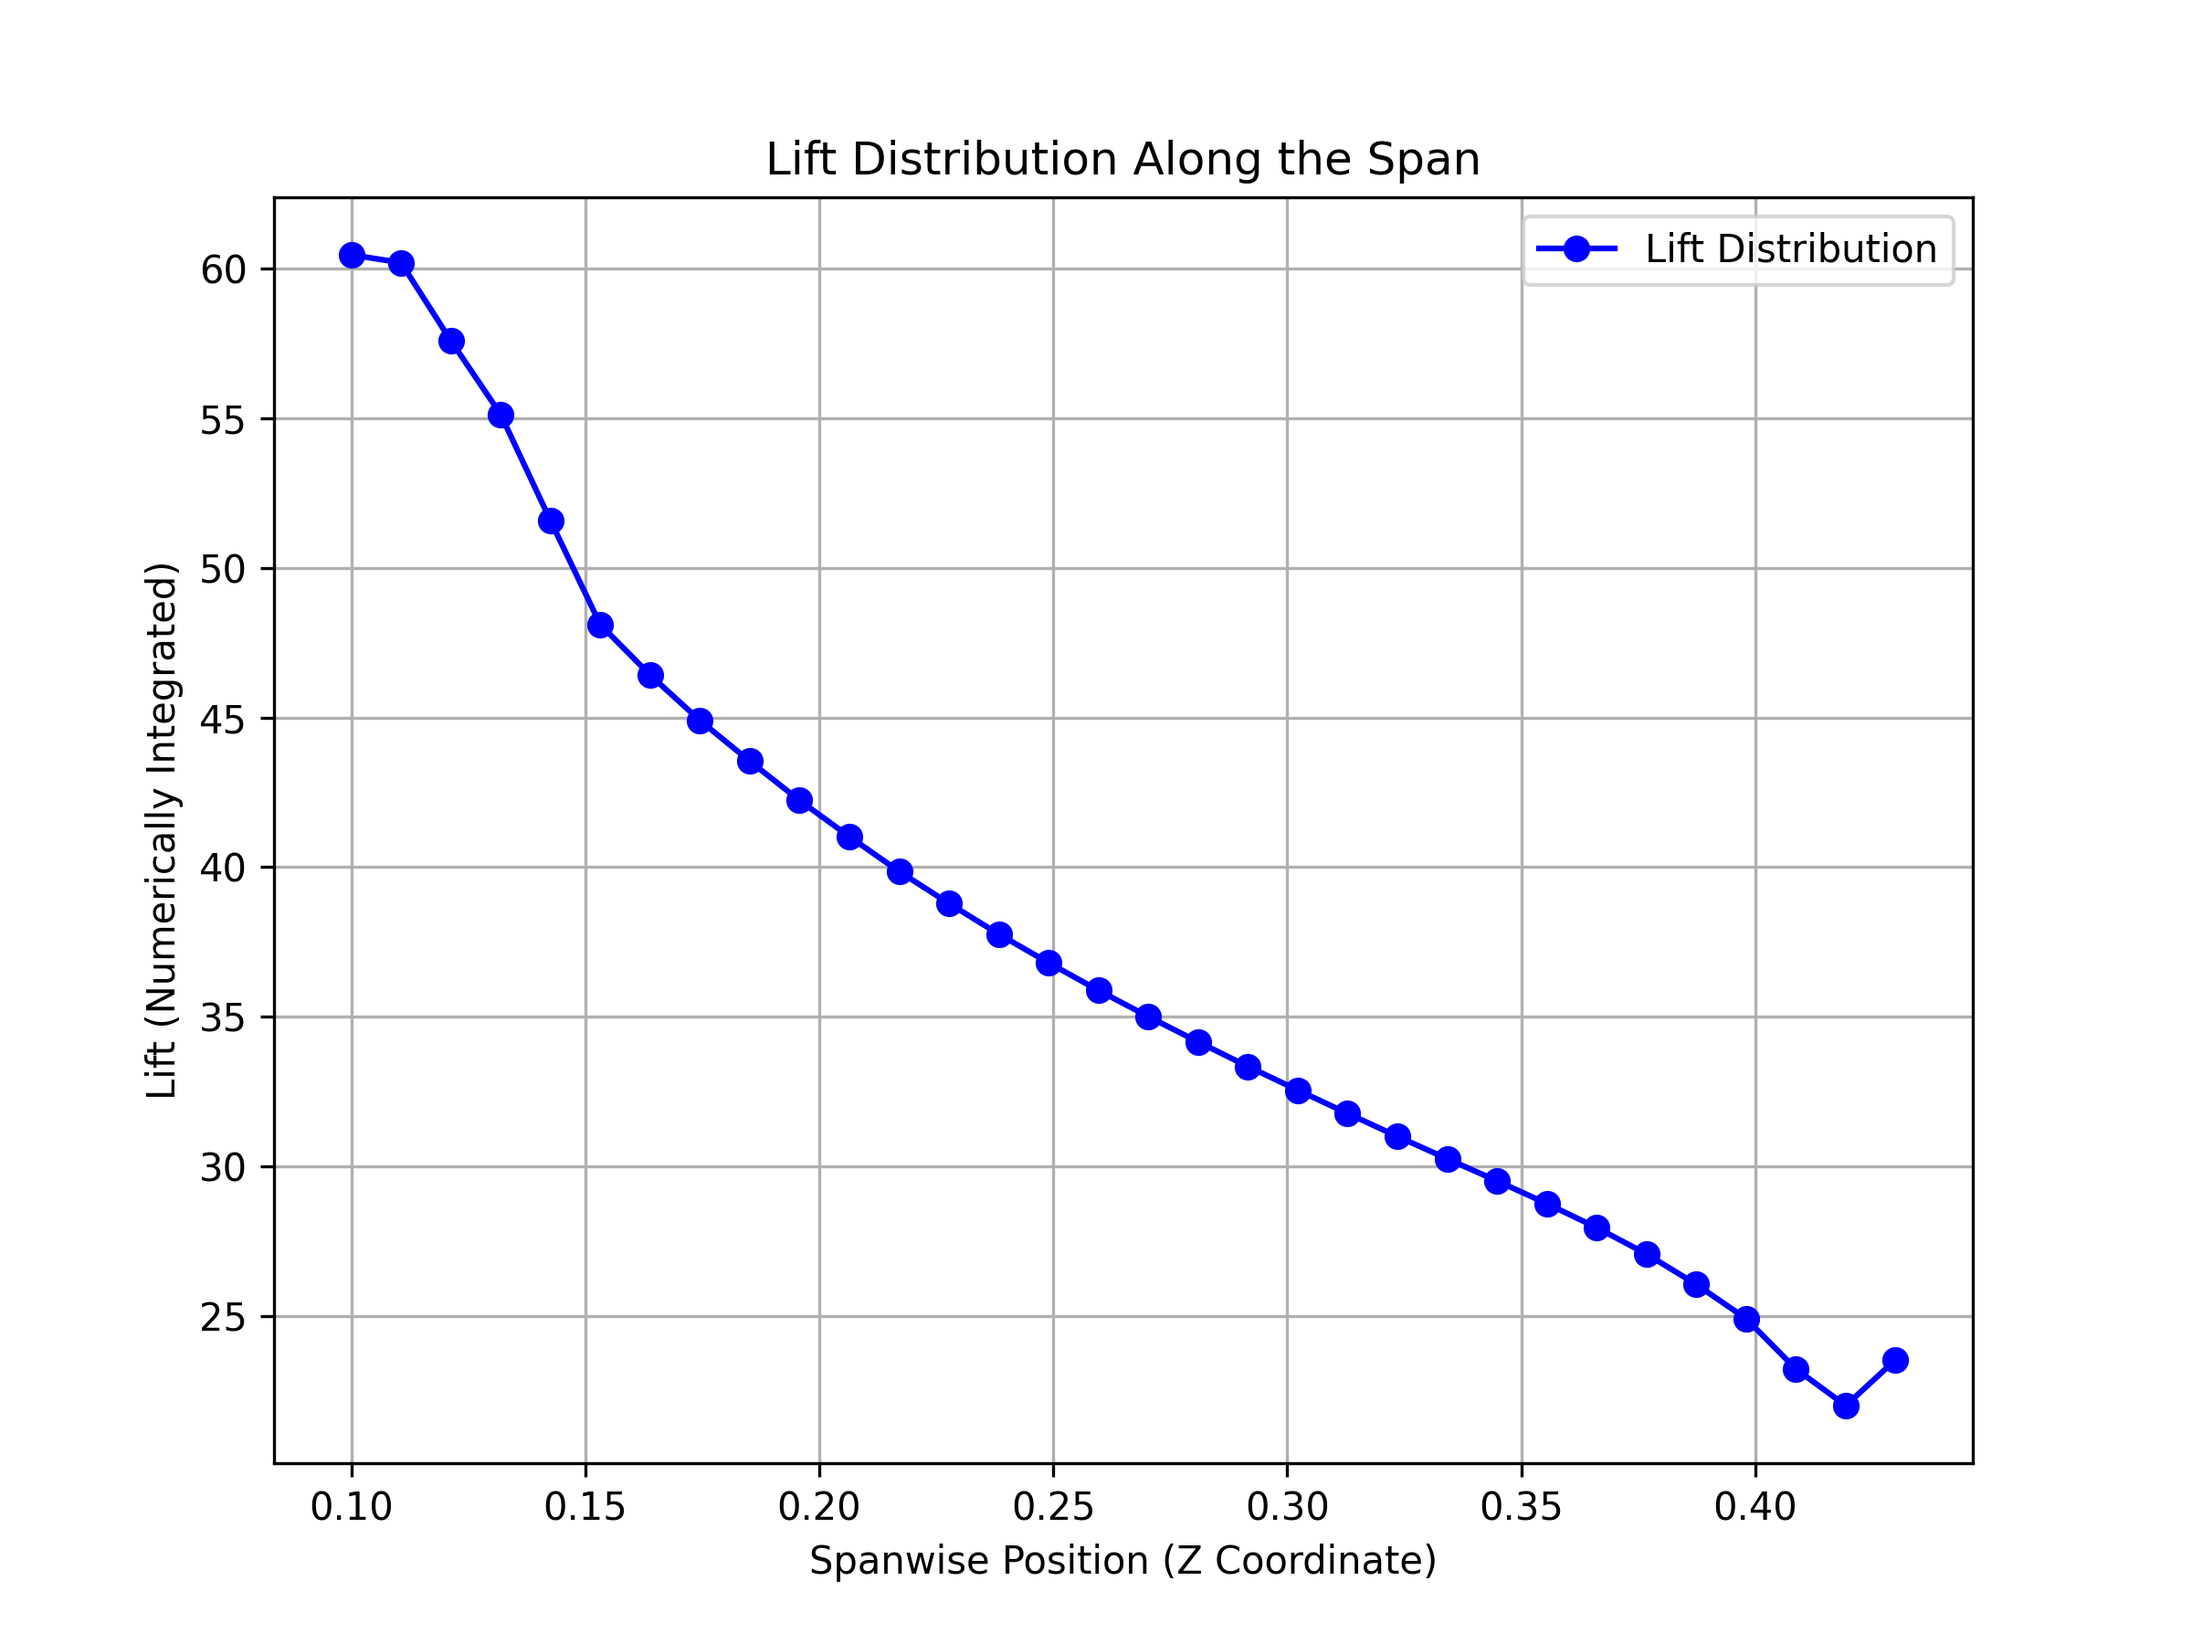
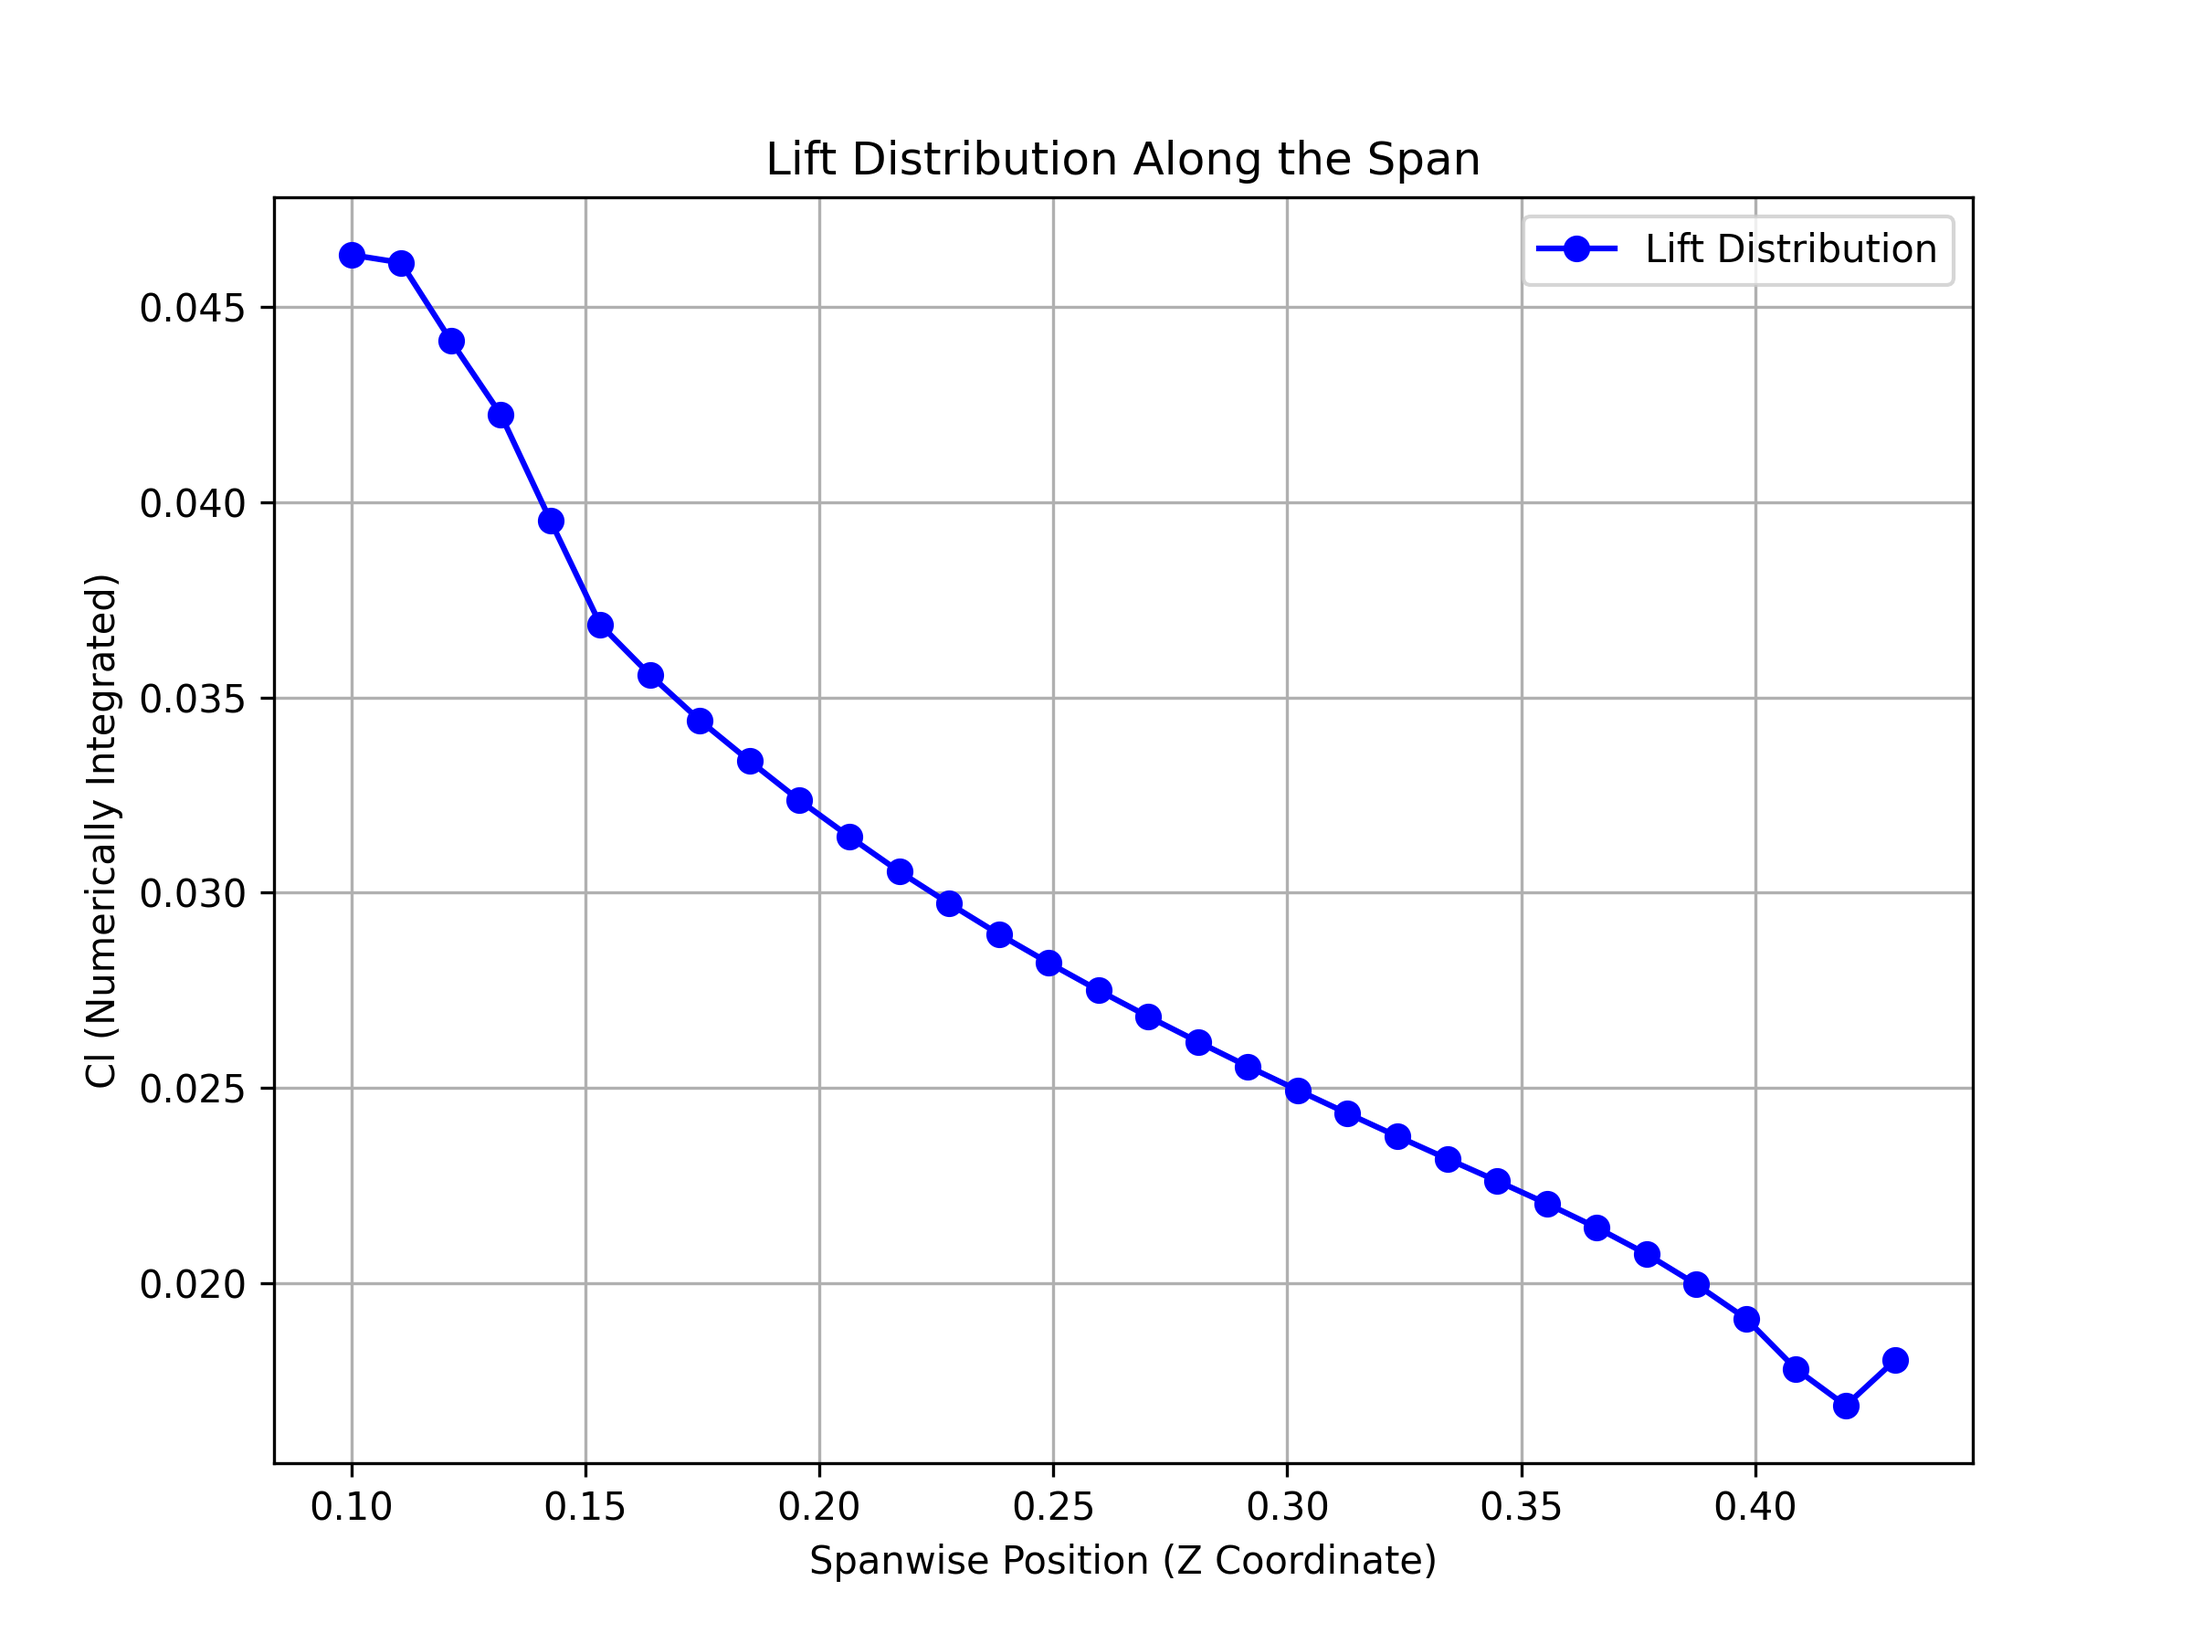
Changed to lift coefficient

diff --git a/Wings/scraper2.py b/Wings/scraper2.py
@@ -211,7 +211,7 @@ def compute_lift_coefficient(x, y, z, pressure, q, S):
     return Cl, L_total
 
 
-def plot_lift_distribution(x, y, z, pressure, plot_surf=False):
+def plot_lift_distribution(x, y, z, pressure, plot_surf=False, q=0.5 * 1.176655 * 34.70916 * 34.70916, S=1.841):
     mask = (np.abs(y) <= 1.5) & (np.abs(pressure) > 10)
     x_filtered = x[mask]
     y_filtered = y[mask]
@@ -288,7 +288,9 @@ def plot_lift_distribution(x, y, z, pressure, plot_surf=False):
         if (x_max - x_min) < 0.0001:
             continue
         print("Chord: ", (x_max - x_min))
-        # lift_at_y = lift_at_y/(x_max-x_min) # normalize by the chord
+        chord = x_max - x_min
+        lift_at_y = lift_at_y*(x_max-x_min) # denormalize by the chord
+        lift_at_y = lift_at_y/(q*S*chord) # make it a lift coefficient
         valid_y_values.append(y_value)
         lift_distribution.append(lift_at_y)
 
@@ -300,7 +302,7 @@ def plot_lift_distribution(x, y, z, pressure, plot_surf=False):
     plt.axvline(x=0.579, color='b', linestyle='dotted', label="Right TE kink")
     plt.axvline(x=-0.579, color='b', linestyle='dotted', label="Left TE kink")
     plt.xlabel("Spanwise Position (Y Coordinate)")
-    plt.ylabel("Lift (Numerically Integrated)")
+    plt.ylabel("Cl (Numerically Integrated)")
     plt.title("Lift Distribution Along the Span")
     plt.grid(True)
     plt.legend()
@@ -311,7 +313,7 @@ def plot_lift_distribution(x, y, z, pressure, plot_surf=False):
 
     plt.show()
 
-def plot_all_lift_distributions(datasets, titles):
+def plot_all_lift_distributions(datasets, titles, q=0.5 * 1.176655 * 34.70916 * 34.70916, S=1.841):
     """
     Plot lift distributions for multiple datasets in a single figure.
     Each dataset is a tuple (x, y, z, pressure).
@@ -378,7 +380,9 @@ def plot_all_lift_distributions(datasets, titles):
             print("Chord: ", (x_max - x_min))
             # lift_at_y = lift_at_y/(x_max-x_min) # normalize by the chord
             valid_y_values.append(y_value)
-            # lift_at_y = lift_at_y / (x_max - x_min)  # normalize by the chord
+            chord = x_max - x_min
+            lift_at_y = lift_at_y*(x_max-x_min) # denormalize by the chord
+            lift_at_y = lift_at_y / (q * S * chord)  # make it a lift coefficient
             lift_distribution.append(lift_at_y)
 
         plt.plot(valid_y_values, lift_distribution, marker='o', label=label)
@@ -390,7 +394,7 @@ def plot_all_lift_distributions(datasets, titles):
     plt.axvline(x=0.579, color='b', linestyle='dotted', label="Right TE kink")
     plt.axvline(x=-0.579, color='b', linestyle='dotted', label="Left TE kink")
     plt.xlabel("Spanwise Position (Y Coordinate)")
-    plt.ylabel("Lift (Numerically Integrated)")
+    plt.ylabel("Cl (Numerically Integrated)")
     plt.title("Lift Distributions for All Cases")
     plt.grid(True)
     plt.legend()

diff --git a/Left Winglets/scraper3.py b/Left Winglets/scraper3.py
@@ -203,7 +203,7 @@ def compute_lift_coefficient(x, y, z, pressure, q, S):
     return Cl, L_total
 
 
-def plot_lift_distribution(x, y, z, pressure, plot_surf=False, invertlift=False):
+def plot_lift_distribution(x, y, z, pressure, plot_surf=False, invertlift=False, q=0.5 * 1.176655 * 34.70916 * 34.70916, S=1.841):
     mask = (np.abs(y) <= 1.6) & (np.abs(pressure) > 0.5)
     x_filtered = x[mask]
     y_filtered = y[mask]
@@ -282,14 +282,15 @@ def plot_lift_distribution(x, y, z, pressure, plot_surf=False, invertlift=False)
         if (x_max - x_min) < 0.0001:
             continue
         print("Chord: ", (x_max - x_min))
-        # lift_at_y = lift_at_y/(x_max-x_min) # normalize by the chord
+        lift_at_z = lift_at_z * (x_max - x_min)  # denormalize by the chord
+        lift_at_z = lift_at_z / (q * S * (x_max - x_min))
         valid_z_values.append(z_value)
         lift_distribution.append(lift_at_z)
 
     plt.figure(figsize=(8, 6))
     plt.plot(valid_z_values, lift_distribution, marker='o', color='b', label="Lift Distribution")
     plt.xlabel("Spanwise Position (Z Coordinate)")
-    plt.ylabel("Lift (Numerically Integrated)")
+    plt.ylabel("Cl (Numerically Integrated)")
     plt.title("Lift Distribution Along the Span")
     plt.grid(True)
     plt.legend()
@@ -300,7 +301,7 @@ def plot_lift_distribution(x, y, z, pressure, plot_surf=False, invertlift=False)
 
     plt.show()
 
-def plot_all_lift_distributions(datasets, titles):
+def plot_all_lift_distributions(datasets, titles, q=0.5 * 1.176655 * 34.70916 * 34.70916, S=1.841):
     """
     Plot lift distributions for multiple datasets in a single figure.
     Each dataset is a tuple (x, y, z, pressure).
@@ -368,7 +369,8 @@ def plot_all_lift_distributions(datasets, titles):
             if (x_max - x_min) < 0.0001:
                 continue
             print("Chord: ", (x_max - x_min))
-            # lift_at_y = lift_at_y/(x_max-x_min) # normalize by the chord
+            lift_at_z = lift_at_z*(x_max-x_min) # denormalize by the chord
+            lift_at_z = lift_at_z/(q*S*(x_max-x_min))
             valid_z_values.append(z_value)
             lift_distribution.append(lift_at_z)
 
@@ -376,7 +378,7 @@ def plot_all_lift_distributions(datasets, titles):
 
     # Add reference lines and formatting
     plt.xlabel("Spanwise Position (Z Coordinate)")
-    plt.ylabel("Lift (Numerically Integrated)")
+    plt.ylabel("Cl (Numerically Integrated)")
     plt.title("Lift Distributions for All Cases")
     plt.grid(True)
     plt.legend()

diff --git a/Right Winglets/scraper3.py b/Right Winglets/scraper3.py
@@ -203,7 +203,7 @@ def compute_lift_coefficient(x, y, z, pressure, q, S):
     return Cl, L_total
 
 
-def plot_lift_distribution(x, y, z, pressure, plot_surf=False, invertlift=False):
+def plot_lift_distribution(x, y, z, pressure, plot_surf=False, invertlift=False, q=0.5 * 1.176655 * 34.70916 * 34.70916, S=1.841):
     mask = (np.abs(y) <= 1.6) & (np.abs(pressure) > 0.5)
     x_filtered = x[mask]
     y_filtered = y[mask]
@@ -282,14 +282,15 @@ def plot_lift_distribution(x, y, z, pressure, plot_surf=False, invertlift=False)
         if (x_max - x_min) < 0.0001:
             continue
         print("Chord: ", (x_max - x_min))
-        # lift_at_y = lift_at_y/(x_max-x_min) # normalize by the chord
+        lift_at_z = lift_at_z * (x_max - x_min)  # denormalize by the chord
+        lift_at_z = lift_at_z / (q * S * (x_max - x_min))
         valid_z_values.append(z_value)
         lift_distribution.append(lift_at_z)
 
     plt.figure(figsize=(8, 6))
     plt.plot(valid_z_values, lift_distribution, marker='o', color='b', label="Lift Distribution")
     plt.xlabel("Spanwise Position (Z Coordinate)")
-    plt.ylabel("Lift (Numerically Integrated)")
+    plt.ylabel("Cl (Numerically Integrated)")
     plt.title("Lift Distribution Along the Span")
     plt.grid(True)
     plt.legend()
@@ -300,7 +301,7 @@ def plot_lift_distribution(x, y, z, pressure, plot_surf=False, invertlift=False)
 
     plt.show()
 
-def plot_all_lift_distributions(datasets, titles):
+def plot_all_lift_distributions(datasets, titles, q=0.5 * 1.176655 * 34.70916 * 34.70916, S=1.841):
     """
     Plot lift distributions for multiple datasets in a single figure.
     Each dataset is a tuple (x, y, z, pressure).
@@ -368,7 +369,8 @@ def plot_all_lift_distributions(datasets, titles):
             if (x_max - x_min) < 0.0001:
                 continue
             print("Chord: ", (x_max - x_min))
-            # lift_at_y = lift_at_y/(x_max-x_min) # normalize by the chord
+            lift_at_z = lift_at_z*(x_max-x_min) # denormalize by the chord
+            lift_at_z = lift_at_z/(q*S*(x_max-x_min))
             valid_z_values.append(z_value)
             lift_distribution.append(lift_at_z)
 
@@ -376,7 +378,7 @@ def plot_all_lift_distributions(datasets, titles):
 
     # Add reference lines and formatting
     plt.xlabel("Spanwise Position (Z Coordinate)")
-    plt.ylabel("Lift (Numerically Integrated)")
+    plt.ylabel("Cl (Numerically Integrated)")
     plt.title("Lift Distributions for All Cases")
     plt.grid(True)
     plt.legend()
